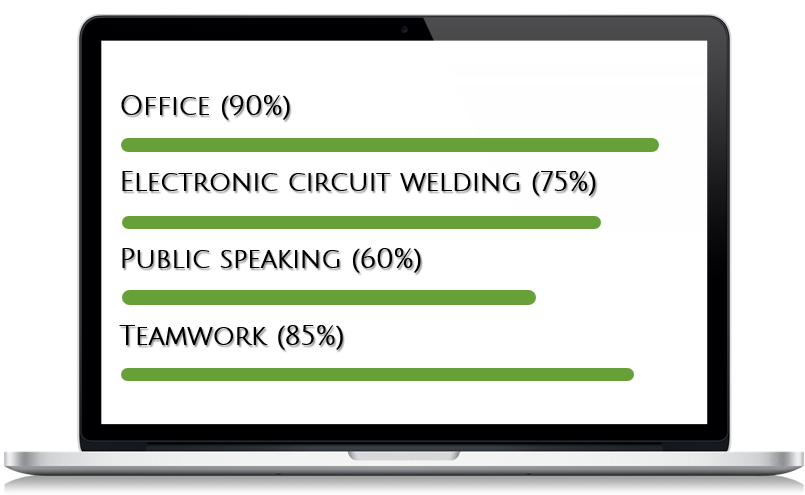
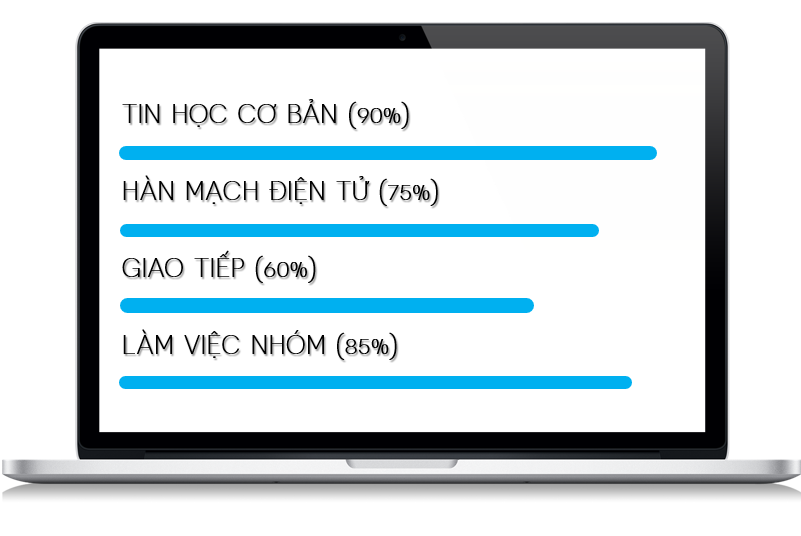
Update 03/08/2022

diff --git a/index.html b/index.html
@@ -6,6 +6,8 @@
     <meta name="viewport" content="width=device-width, initial-scale=1.0">
     <title>TEAM'S PROFILE</title><link rel="preconnect" href="https://fonts.googleapis.com">
     <link rel="preconnect" href="https://fonts.gstatic.com" crossorigin>
+    <link href="https://fonts.googleapis.com/css2?family=Playfair+Display:ital,wght@0,400;0,500;0,600;0,700;0,800;0,900;1,400;1,500;1,600;1,700;1,800;1,900&display=swap" rel="stylesheet">
+    <link href="https://fonts.googleapis.com/css2?family=Dancing+Script:wght@400;500;600;700&display=swap" rel="stylesheet">
     <link href="https://fonts.googleapis.com/css2?family=EB+Garamond:ital,wght@0,400;0,500;0,600;0,700;0,800;1,400;1,500;1,600;1,700;1,800&display=swap" rel="stylesheet">
     <link rel="stylesheet" href="CSS/styles.css">
 </head>
@@ -47,7 +49,7 @@
             <div id="title_profile">
                 <img src="/IMAGE/HUY3.png" alt="Huy's profile">
             </div>
-    
+            
             <div id="content_profile">
                 <p><b>Full Name: PHAM HUYNH NHAT HUY</b></p>
                 <p><b>Major:</b> Electronics and Communication</p>
@@ -63,11 +65,16 @@
                     <a href="https://github.com/HuyHuyPham01"><img src="/IMAGE/github.png" alt="Github"></a>
                 </div>
             </div>
-    
+            
+            <div id="career_goals">
+                <img class="img" src="/IMAGE/H0.png" alt="Working Experience">
+                <p class="big_text">MỤC TIÊU NGHỀ NGHIỆP</p>
+            </div>
+
             <div id="working_experience">
                 <div class="combo">
                     <img src="/IMAGE/H11.png" alt="Working Experience">
-                    <p class="big_text">WORKING EXPERIENCE</p>
+                    <p class="big_text">KINH NGHIỆM LÀM VIỆC</p>
                 </div>
                 <img class="img" src="/IMAGE/H1.png" alt="Working Experience">
             </div>
@@ -75,7 +82,7 @@
             <div id="personal_skill">
                 <div class="combo2">
                     <img src="/IMAGE/H22.png" alt="Personal Skill">
-                    <p class="big_text">PERSONAL SKILLS</p>
+                    <p class="big_text">KỸ NĂNG</p>
                 </div>
                 <img class="img" src="/IMAGE/H2.png" alt="Personal Skill">
             </div>
@@ -83,7 +90,7 @@
             <div id="certificates">
                 <img class="img" src="/IMAGE/H3.png" alt="Certificates">
                 <div class="combo3">
-                    <p class="big_text">CERTIFICATES</p>
+                    <p class="big_text">CHỨNG CHỈ</p>
                     <img src="/IMAGE/H33.png" alt="Certificates">
                 </div>
             </div>
@@ -91,7 +98,7 @@
             <div id="awards">
                 <div class="combo2">
                     <img src="/IMAGE/H44.png" alt="Awards">
-                    <p class="big_text">AWARDS</p>
+                    <p class="big_text">THÀNH TÍCH</p>
                 </div>
                 <img class="img" src="/IMAGE/H4.png" alt="Awards">
             </div>

diff --git a/CSS/styles.css b/CSS/styles.css
@@ -114,12 +114,28 @@
     padding-left: 10px;
 }
 
+#career_goals {
+    margin: 100px 0;
+}
+
+#career_goals .big_text {
+    font-size: 45px;
+    text-align: center;
+    font-weight: 700;
+    font-family: 'Playfair Display', serif;
+    margin: 20px 0;
+}
+
 #working_experience .big_text {
     display: inline-block;
-    font-size: 40px;
+    font-size: 45px;
     margin: 50px 20px 0 0;
     font-weight: 700;
     font-family: 'Playfair Display', serif;
+}
+
+#working_experience .img, #personal_skill .img, #certificates .img, #awards .img, #career_goals .img {
+    width: 100%;
 }
 
 #personal_skill {
@@ -127,7 +143,7 @@
 } 
 
 #personal_skill .big_text {
-    font-size: 40px;
+    font-size: 45px;
     text-align: center;
     font-weight: 700;
     font-family: 'Playfair Display', serif;
@@ -139,7 +155,7 @@
 }
 
 #certificates .big_text {
-    font-size: 40px;
+    font-size: 45px;
     text-align: right;
     font-weight: 700;
     font-family: 'Playfair Display', serif;
@@ -150,14 +166,14 @@
 } 
 
 #awards .big_text {
-    font-size: 40px;
+    font-size: 45px;
     text-align: center;
     font-weight: 700;
     font-family: 'Playfair Display', serif;
 }
 
 #main_profile_Huy, #main_profile_Thien, #main_profile_Ly, #main_profile_Tinh {
-    position: fixed;
+    position: absolute;
     width: 100%;
     height: 100%;
     top: 0;
@@ -166,19 +182,16 @@
     display: none;
 }
 
-#title_profile, #content_profile, #working_experience, #personal_skill, #certificates, #awards, #contact {
-    position: relative;
-}
-
 #main_profile_Huy:target, #main_profile_Thien:target, #main_profile_Ly:target, #main_profile_Tinh:target {
     display: block;
-    overflow-y: scroll;
 }
 
 .popup {
     width: 50%;
     margin: 0 auto;
+    padding: 5px 0;
     font-family: 'EB Garamond', serif;
+    background-color: white;
 }
 
 /* responsive */
@@ -188,6 +201,7 @@
     #back {
         position: fixed;
         margin-left: 10px;
+        z-index: 1;
     }
 
     #back img {
@@ -238,7 +252,11 @@
         padding-left: 10px;
     }
 
-    #working_experience .big_text {
+    #career_goals {
+        margin: 50px 0;
+    }
+
+    #working_experience .big_text, #career_goals .big_text, #personal_skill .big_text, #awards .big_text {
         font-size: 22px;
     }
 
@@ -247,17 +265,13 @@
         margin: 0 10px;
     }
 
-    #personal_skill .big_text {
-        font-size: 22px;
+    #working_experience .img, #personal_skill .img, #certificates .img, #awards .img, #career_goals .img, #career_goals .img {
+        width: calc(100% - 20px);
     }
 
     #certificates .big_text {
         font-size: 22px;
         padding-right: 10px;
-    }
-
-    #awards .big_text {
-        font-size: 22px;
     }
 
     .popup {
